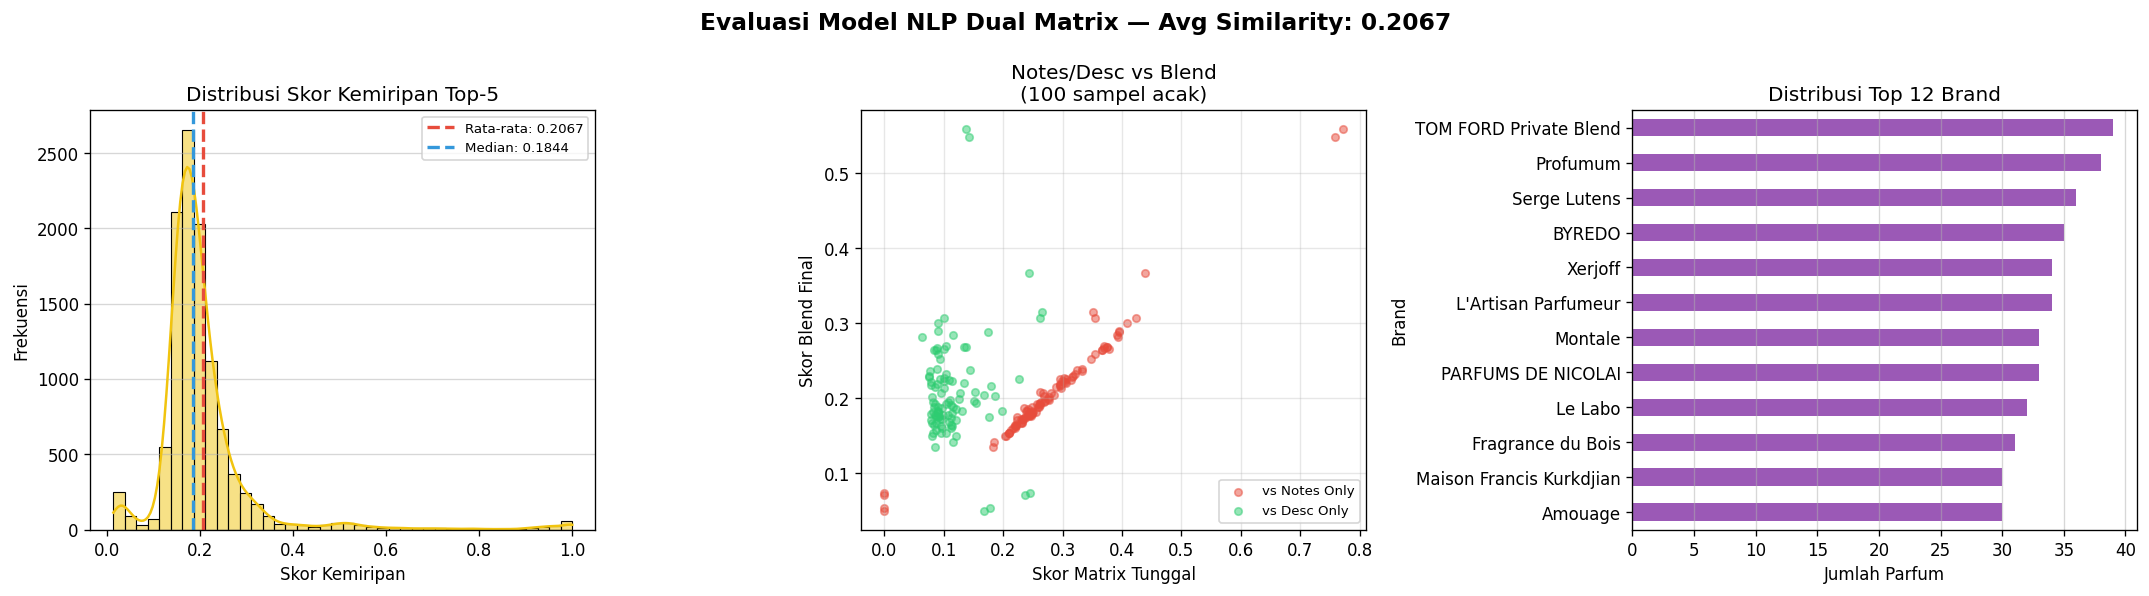
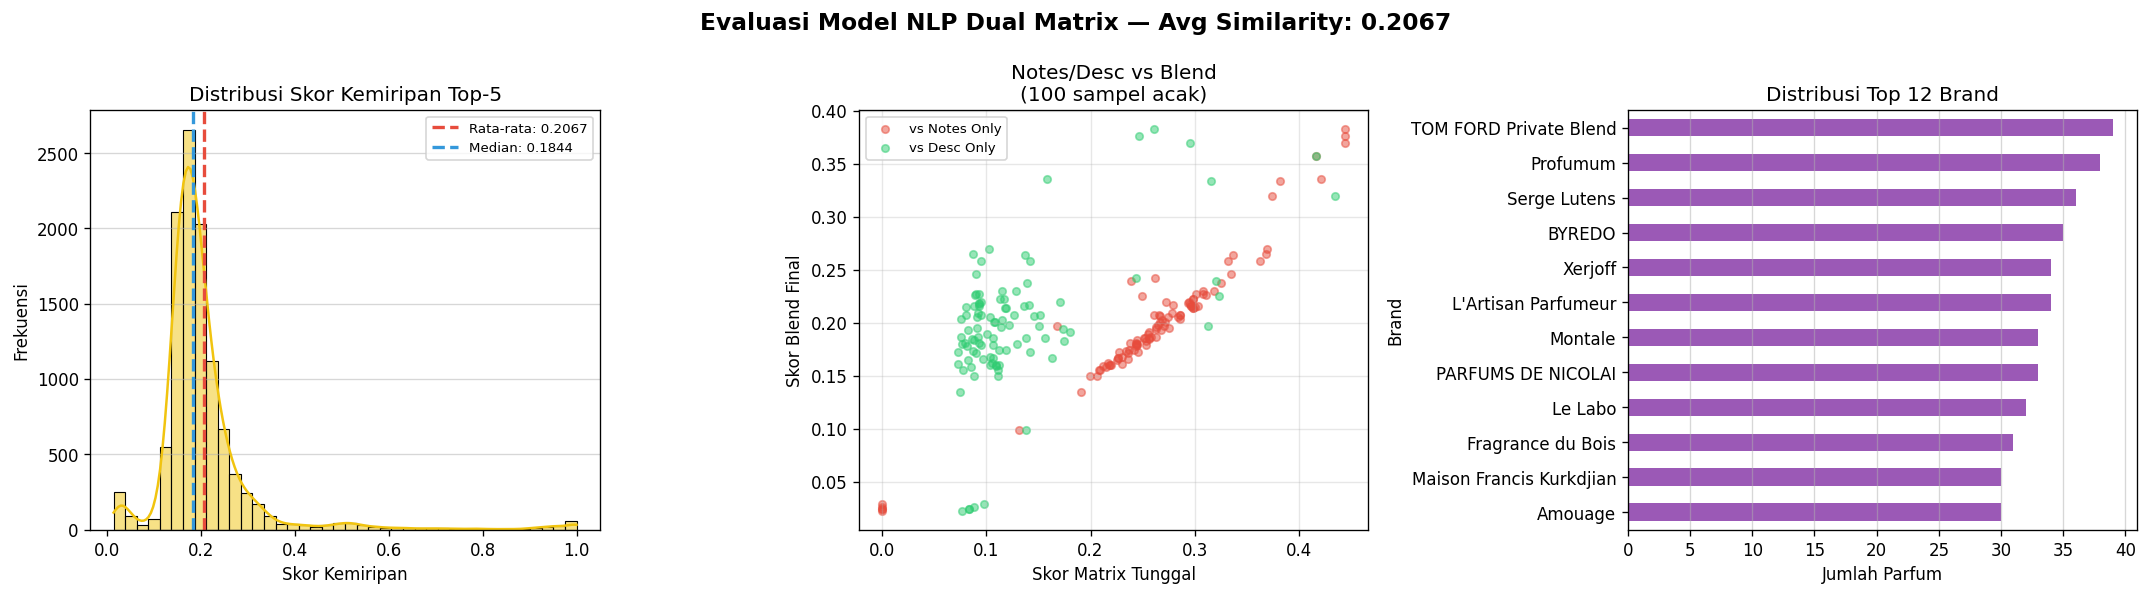
save local changes

diff --git a/app.py b/app.py
@@ -50,7 +50,7 @@ def recommend_from_input(user_input, top_n=10):
 
 # Urutkan dari skor tertinggi
     scores = sorted(enumerate(sim_final), key=lambda x: x[1], reverse=True)
-    scores = [(i, s) for i, s in scores if s > 0]
+    scores = [(i, s) for i, s in scores] # Jangan pakai 'if s > 0'
 
     result_data = []
     seen_names = set()
@@ -85,8 +85,8 @@ def recommend():
     top_n_request = data.get("top_n", 50)
     top_n = int(top_n_request)
     
-    # 2. BARU DIBATASI ANTARA 5 SAMPAI 100
-    top_n = max(5, min(top_n, 100))
+    # Biarkan mengambil sebanyak yang diminta Node.js
+    top_n = top_n
 
     if not user_input:
         return jsonify({"error": "Input tidak boleh kosong"}), 400